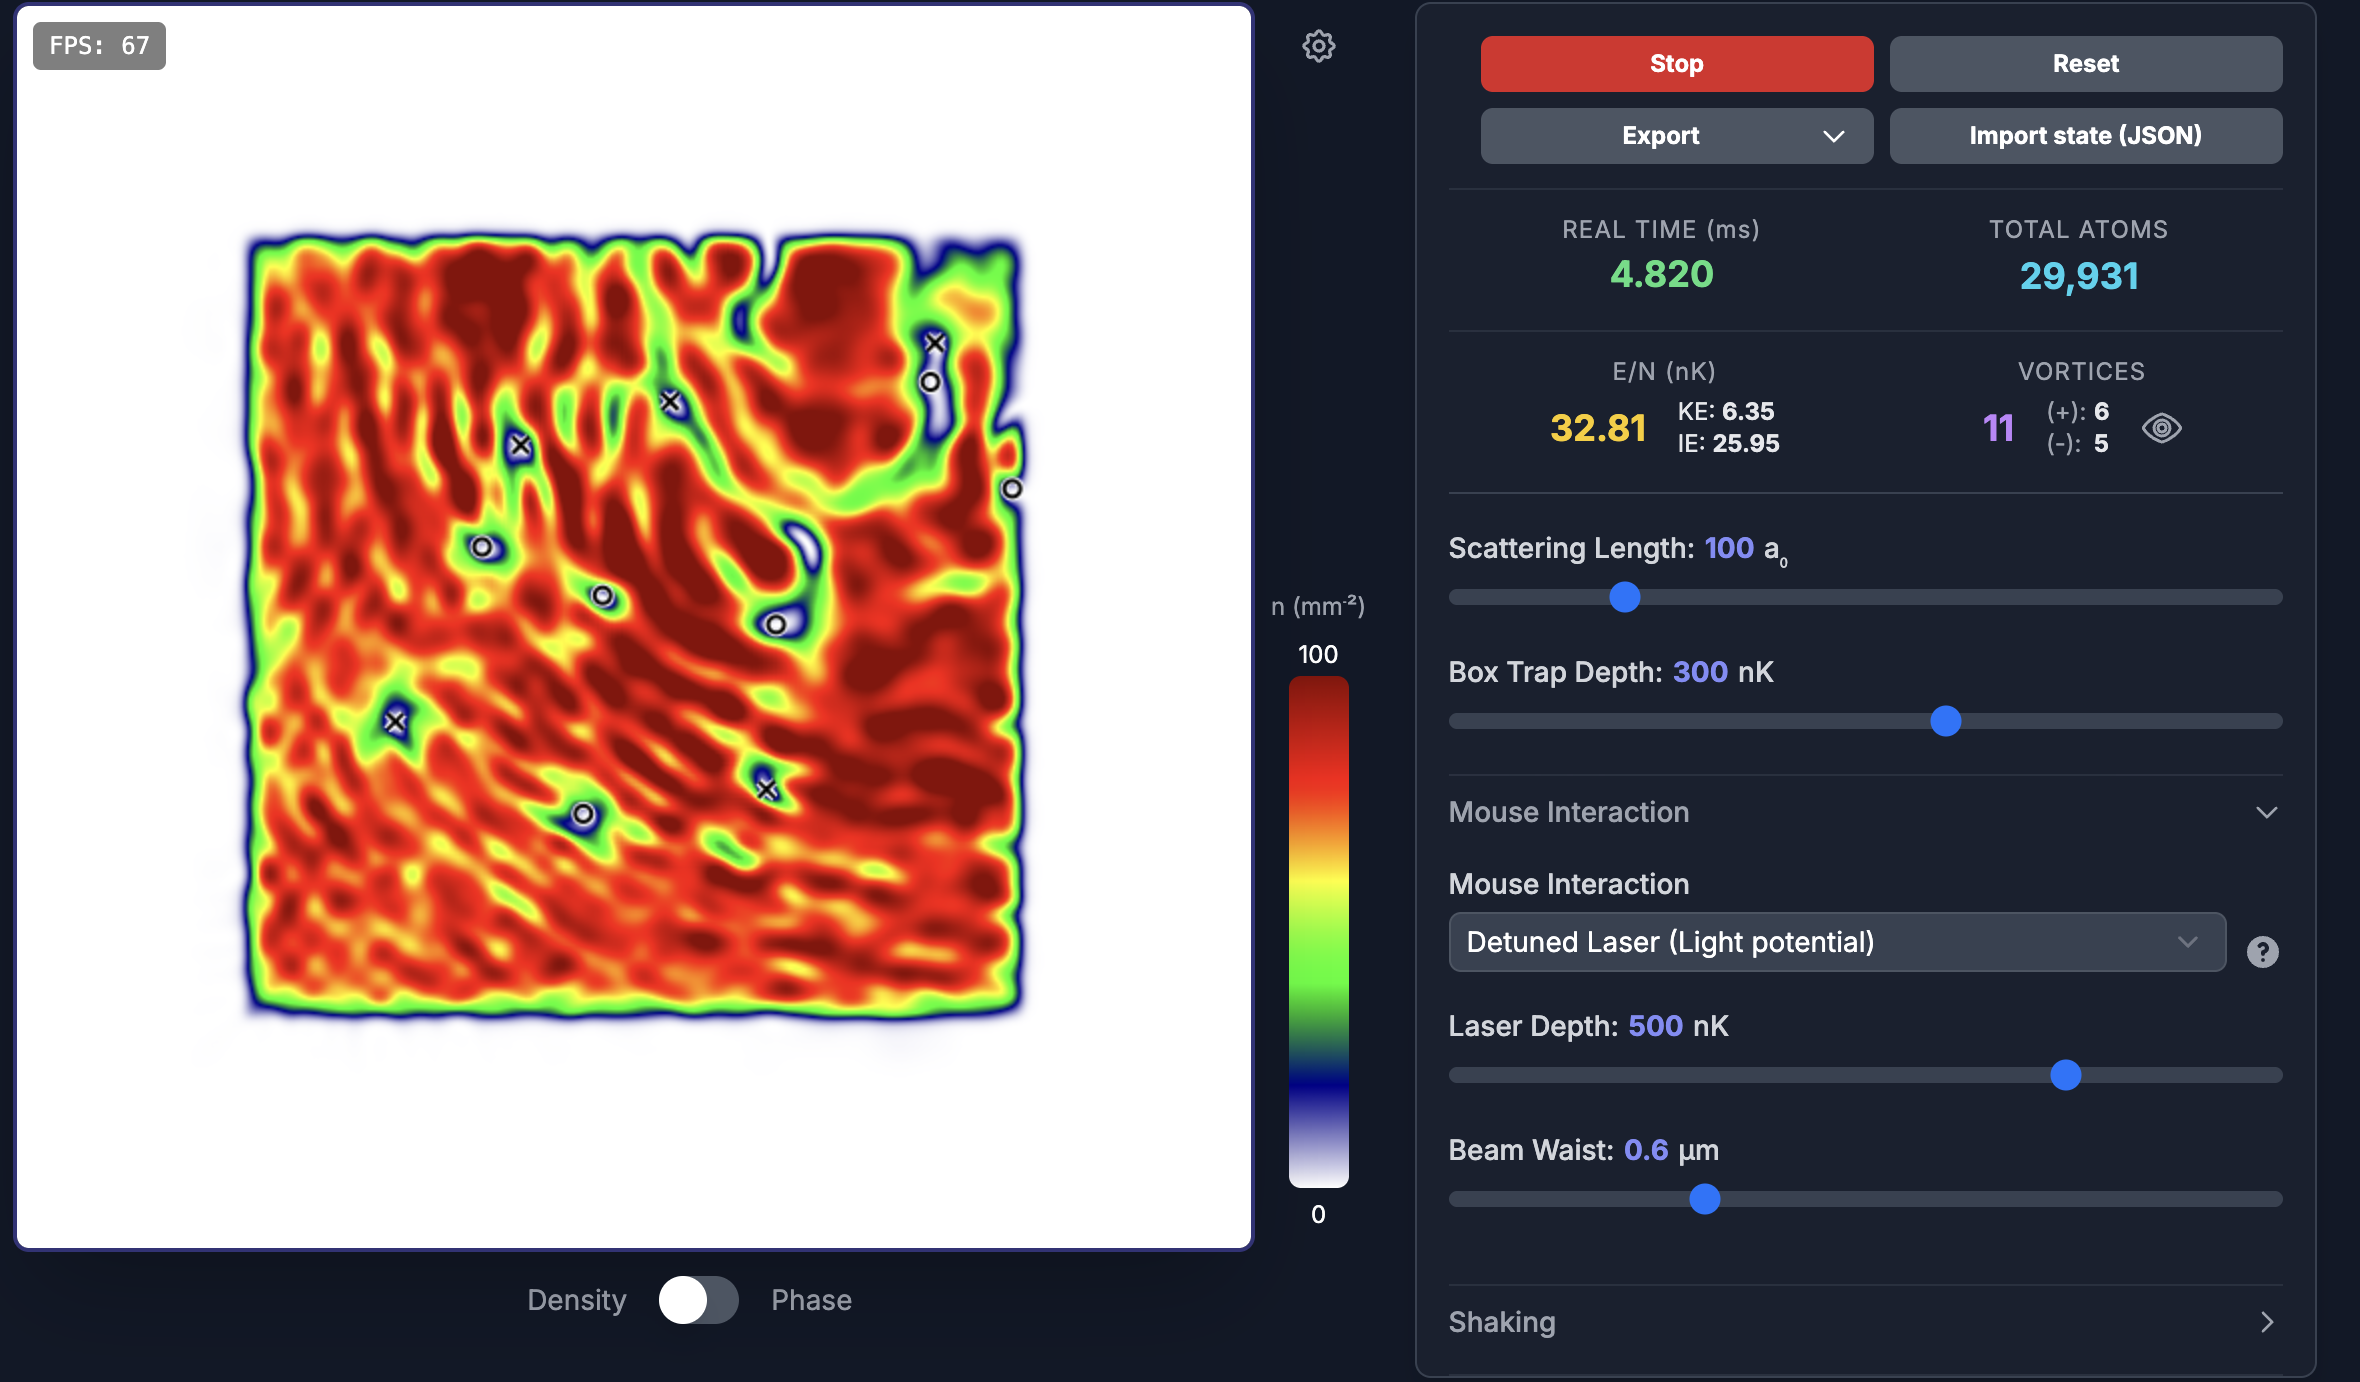
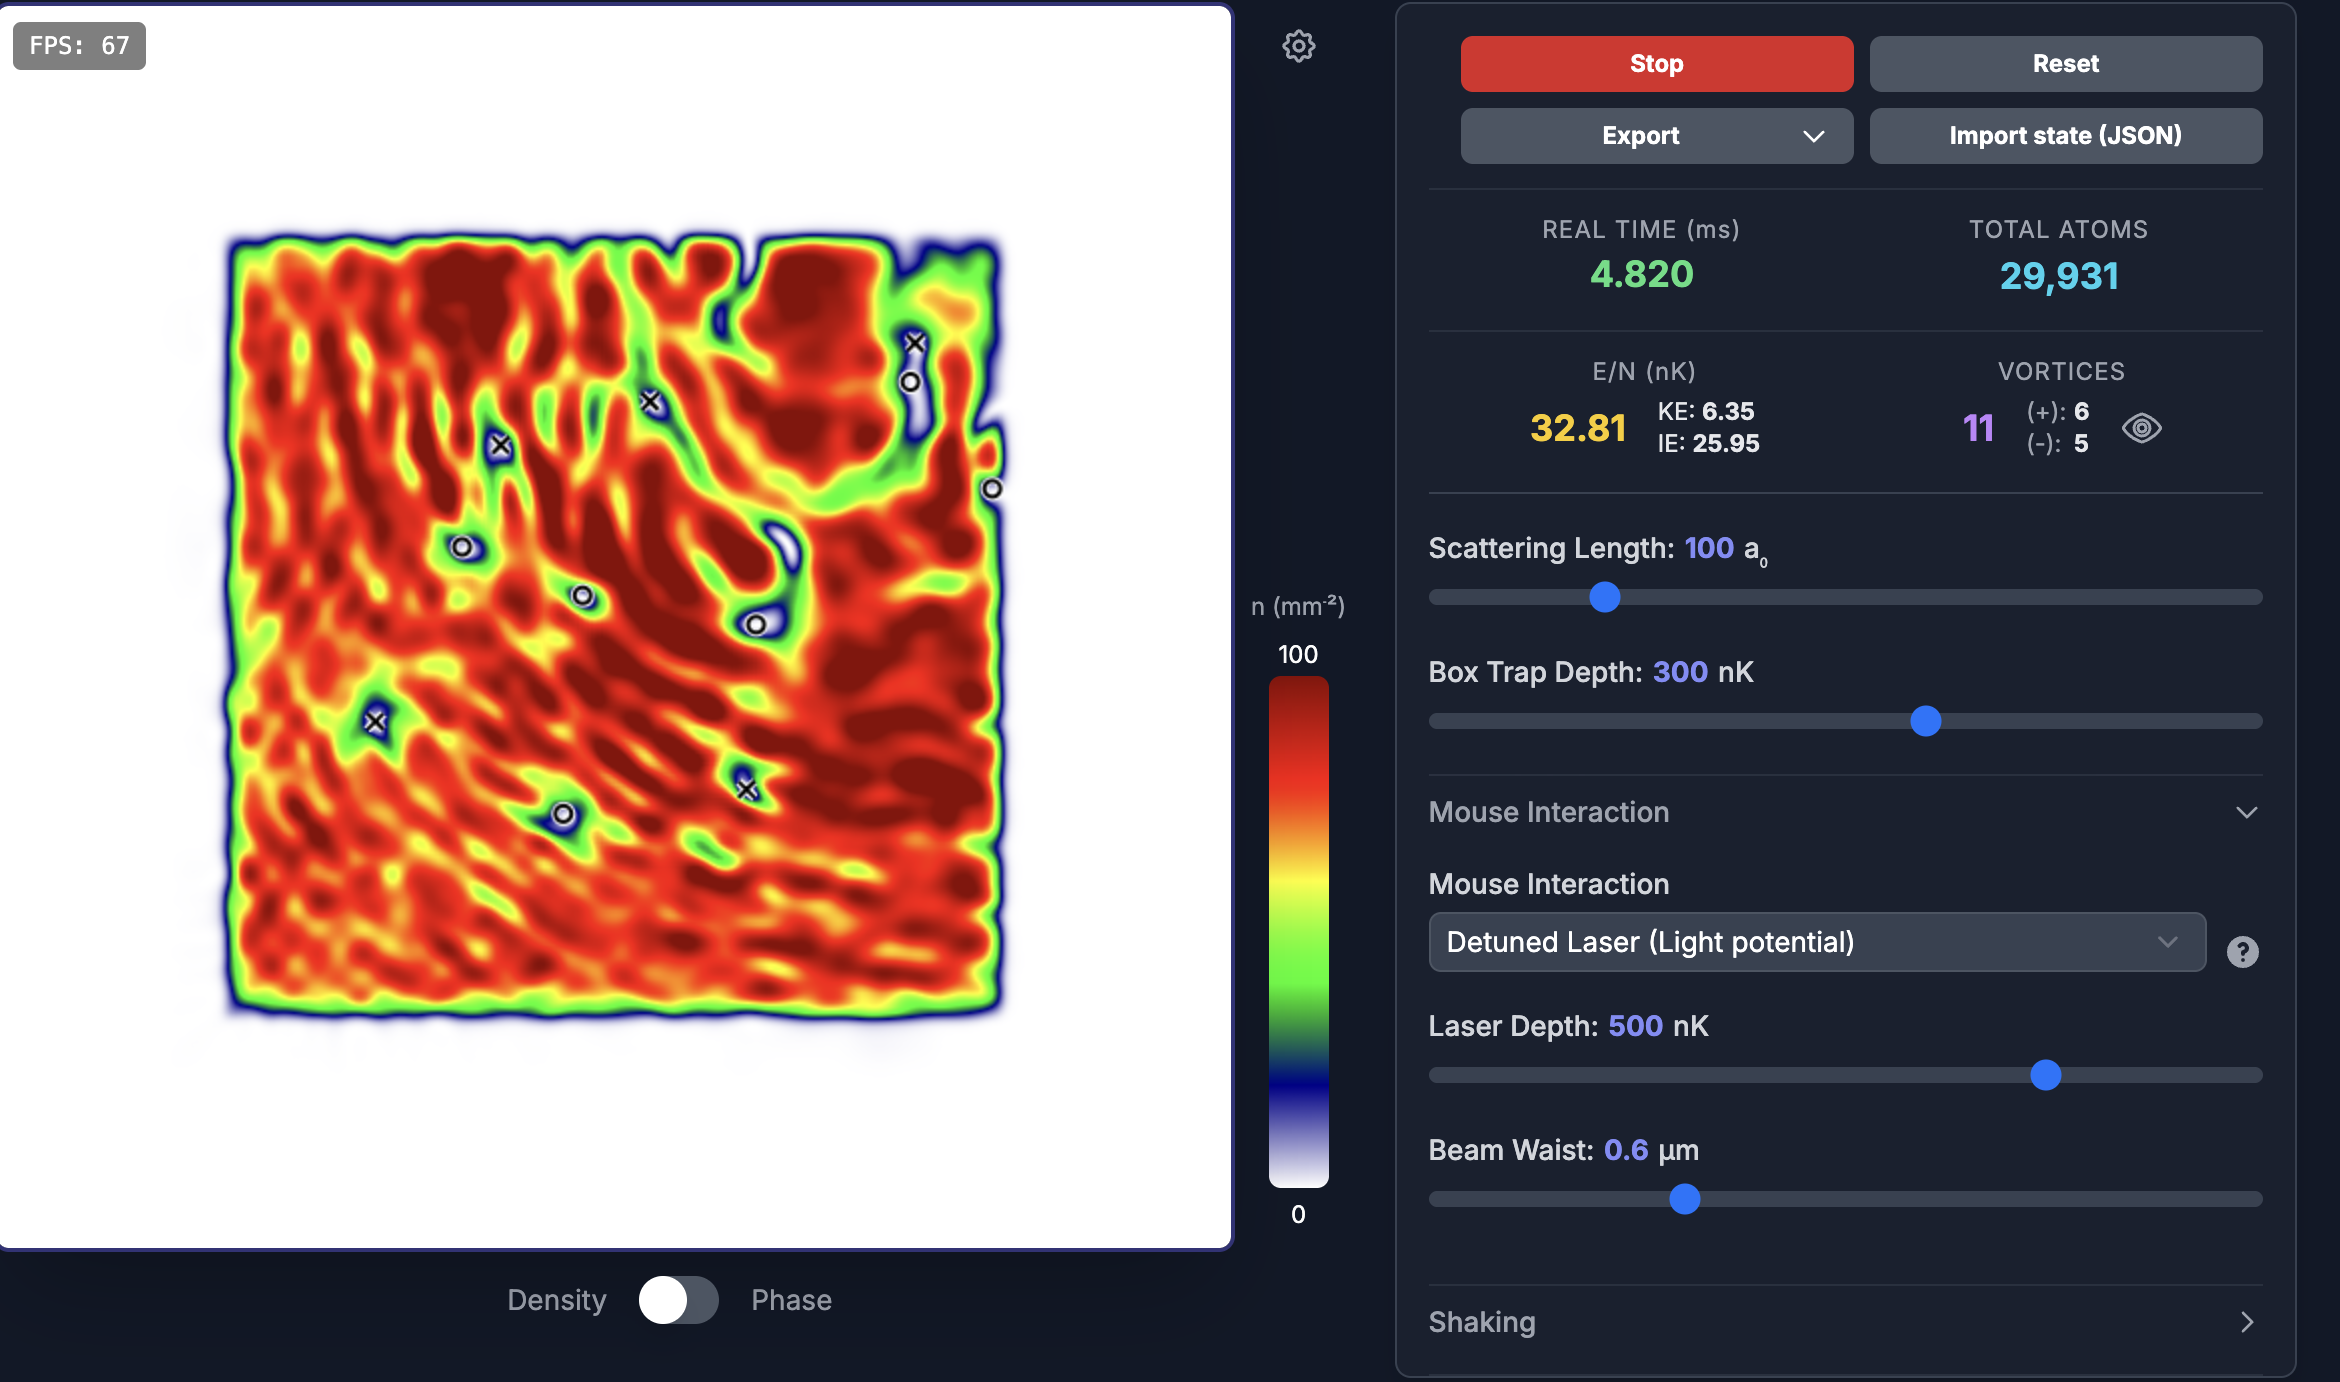
Fix stale OG image/description, update software and highlight copy
- Point og:image/twitter:image at the intended github.io root (old
  matoga.github.io/website/og.png 404s)
- Update meta description to reflect finishing the PhD instead of
  still being a PhD researcher
- Reword software-projects subtitle and BEC3 Status description
- Change "upper rate" to "speed limit" in the coherence highlight
- Crop 2D GPE screenshot 20px from the left

Claude-Session: https://claude.ai/code/session_01AUsFgEng7tqWB9fLbZyvUk

diff --git a/app/page.tsx b/app/page.tsx
@@ -79,7 +79,7 @@ const software = [
   {
     name: 'BEC3 Status',
     description:
-      'Live experiment dashboard for lab telemetry, environmental data, images, and oscilloscope traces, built on Cloudflare D1. Still in active use, so it is password-protected.',
+      "Live dashboard for the lab's sensors, images, and oscilloscope traces, built on Cloudflare D1. Still in active use, so some features, like history, are password-protected.",
     site: 'https://bec3status.pages.dev/',
     image: '/software/bec3-status.png',
     imageAlt: 'Dark BEC3 lab status dashboard with image, air, and photodiode panels',
@@ -162,7 +162,7 @@ const highlights = [
     note: 'Co-author',
     title: 'A universal speed limit for spreading of coherence',
     summary:
-      'When a disordered Bose gas starts to condense, coherence first grows faster if the atoms interact more strongly. At larger distances, that advantage disappears. We found a universal upper rate set only by Planck\'s constant and the atom\'s mass, placing a fundamental limit on how quickly long-range quantum order can form.',
+      'When a disordered Bose gas starts to condense, coherence first grows faster if the atoms interact more strongly. At larger distances, that advantage disappears. We found a universal speed limit set only by Planck\'s constant and the atom\'s mass, placing a fundamental limit on how quickly long-range quantum order can form.',
     image: '/publications/nature-coherence.png',
     imageAlt: 'Ultracold atom experiment illuminated by green laser light',
     paper: 'https://www.nature.com/articles/s41586-025-09735-z',
@@ -409,7 +409,8 @@ export default function Home() {
             </a>
           </div>
           <p className="section-subtitle">
-            Small and larger projects or tools that might be worth sharing.
+            Built to solve problems from the lab or research, but might be useful (or just fun
+            to poke at) if you work with ultracold atoms too.
           </p>
 
           <ul className="software-list">

diff --git a/app/layout.tsx b/app/layout.tsx
@@ -10,19 +10,19 @@ const geistSans = Geist({
 export const metadata: Metadata = {
   title: 'Martin Gazo | Experimental quantum physics',
   description:
-    'Martin Gazo is a PhD researcher in experimental quantum physics at the University of Cambridge.',
+    'Martin Gazo is an experimental physicist who recently finished a PhD in quantum gases at the University of Cambridge, now looking for work outside academia.',
   openGraph: {
     title: 'Martin Gazo | Experimental quantum physics',
     description:
       'Research on turbulence and universal dynamics in homogeneous quantum gases.',
-    images: ['https://matoga.github.io/website/og.png'],
+    images: ['https://matoga.github.io/og.png'],
   },
   twitter: {
     card: 'summary_large_image',
     title: 'Martin Gazo | Experimental quantum physics',
     description:
       'Research on turbulence and universal dynamics in homogeneous quantum gases.',
-    images: ['https://matoga.github.io/website/og.png'],
+    images: ['https://matoga.github.io/og.png'],
   },
 };
 
